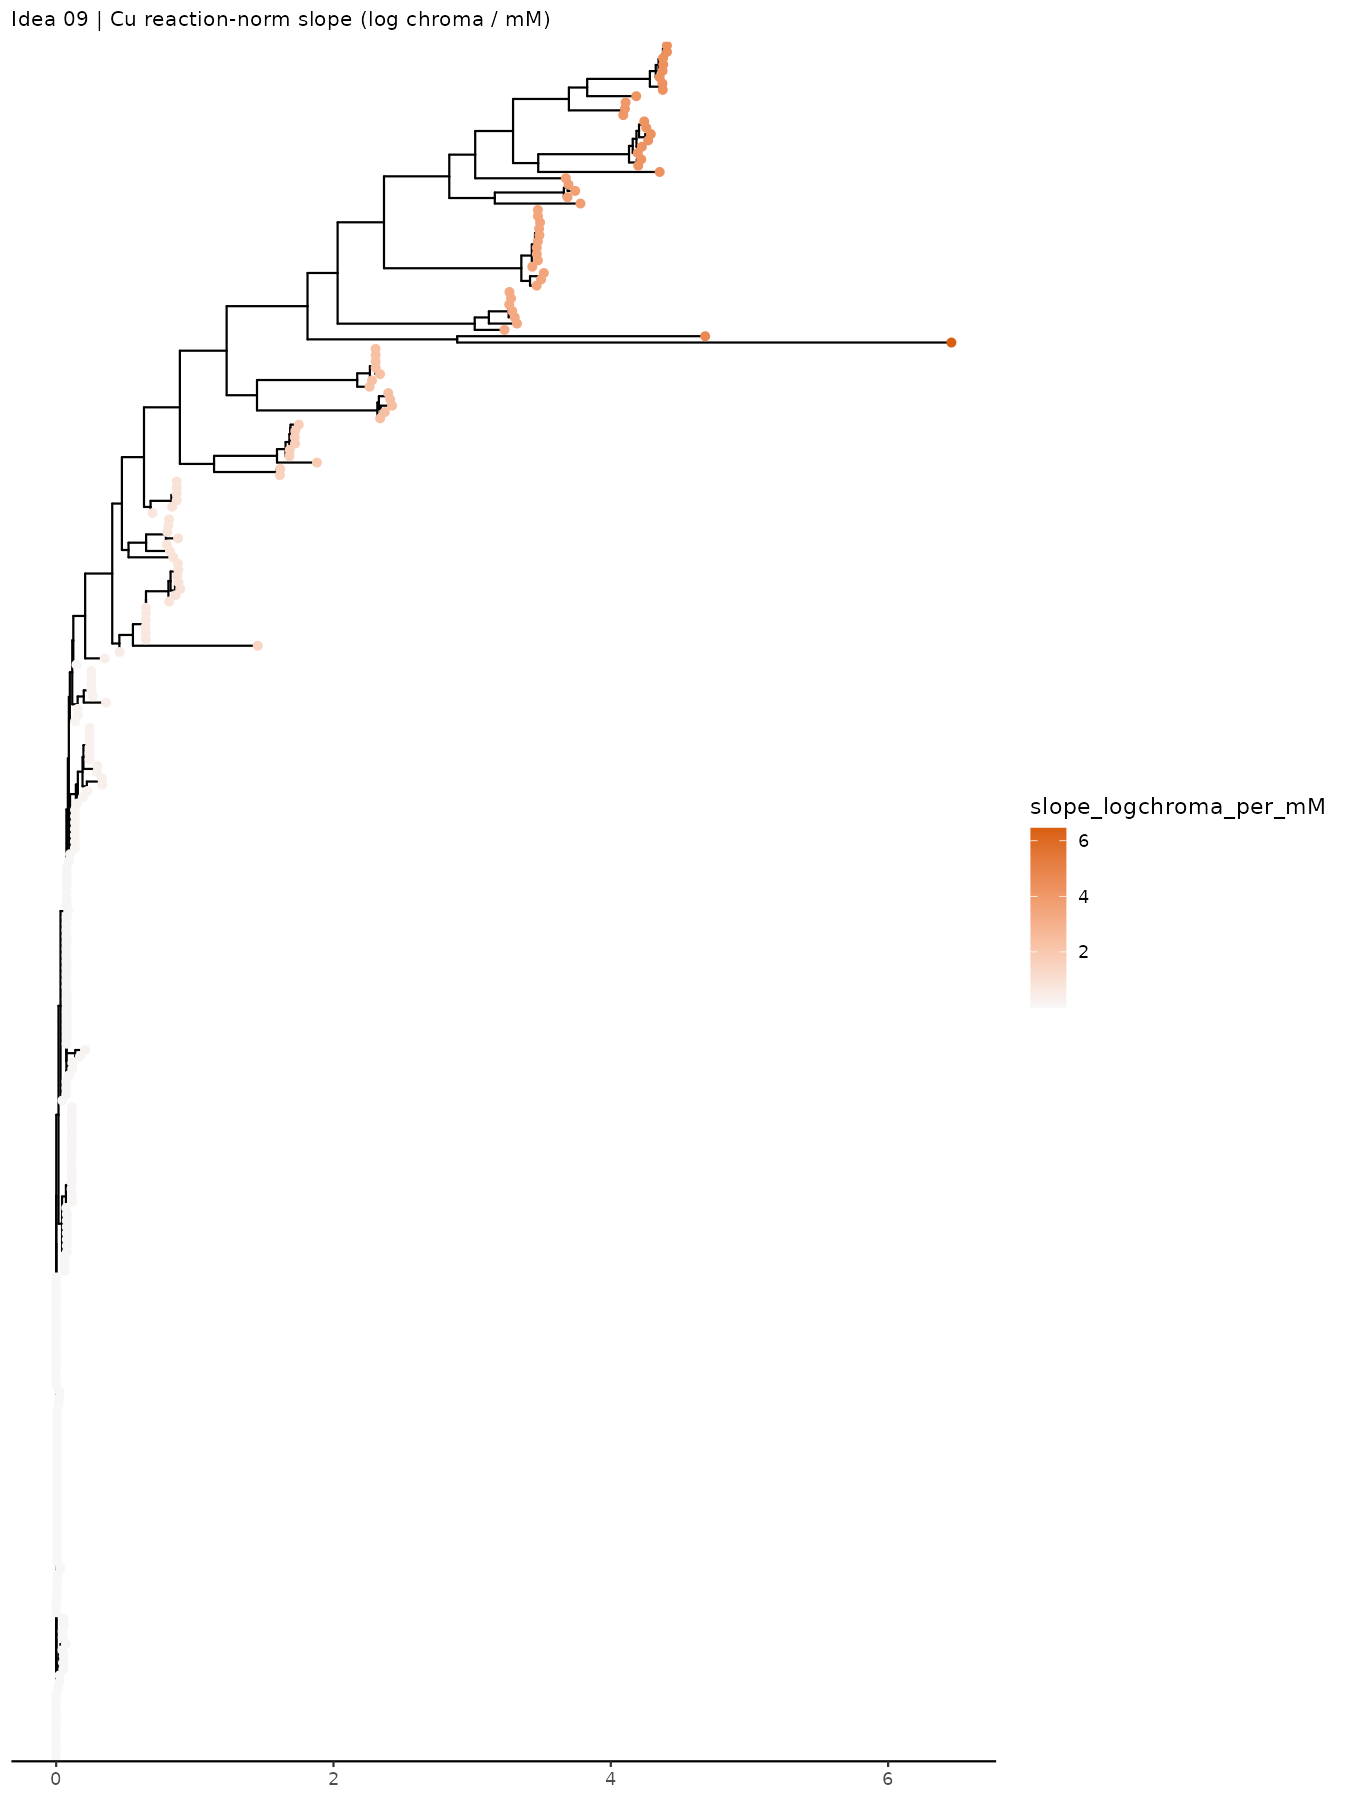
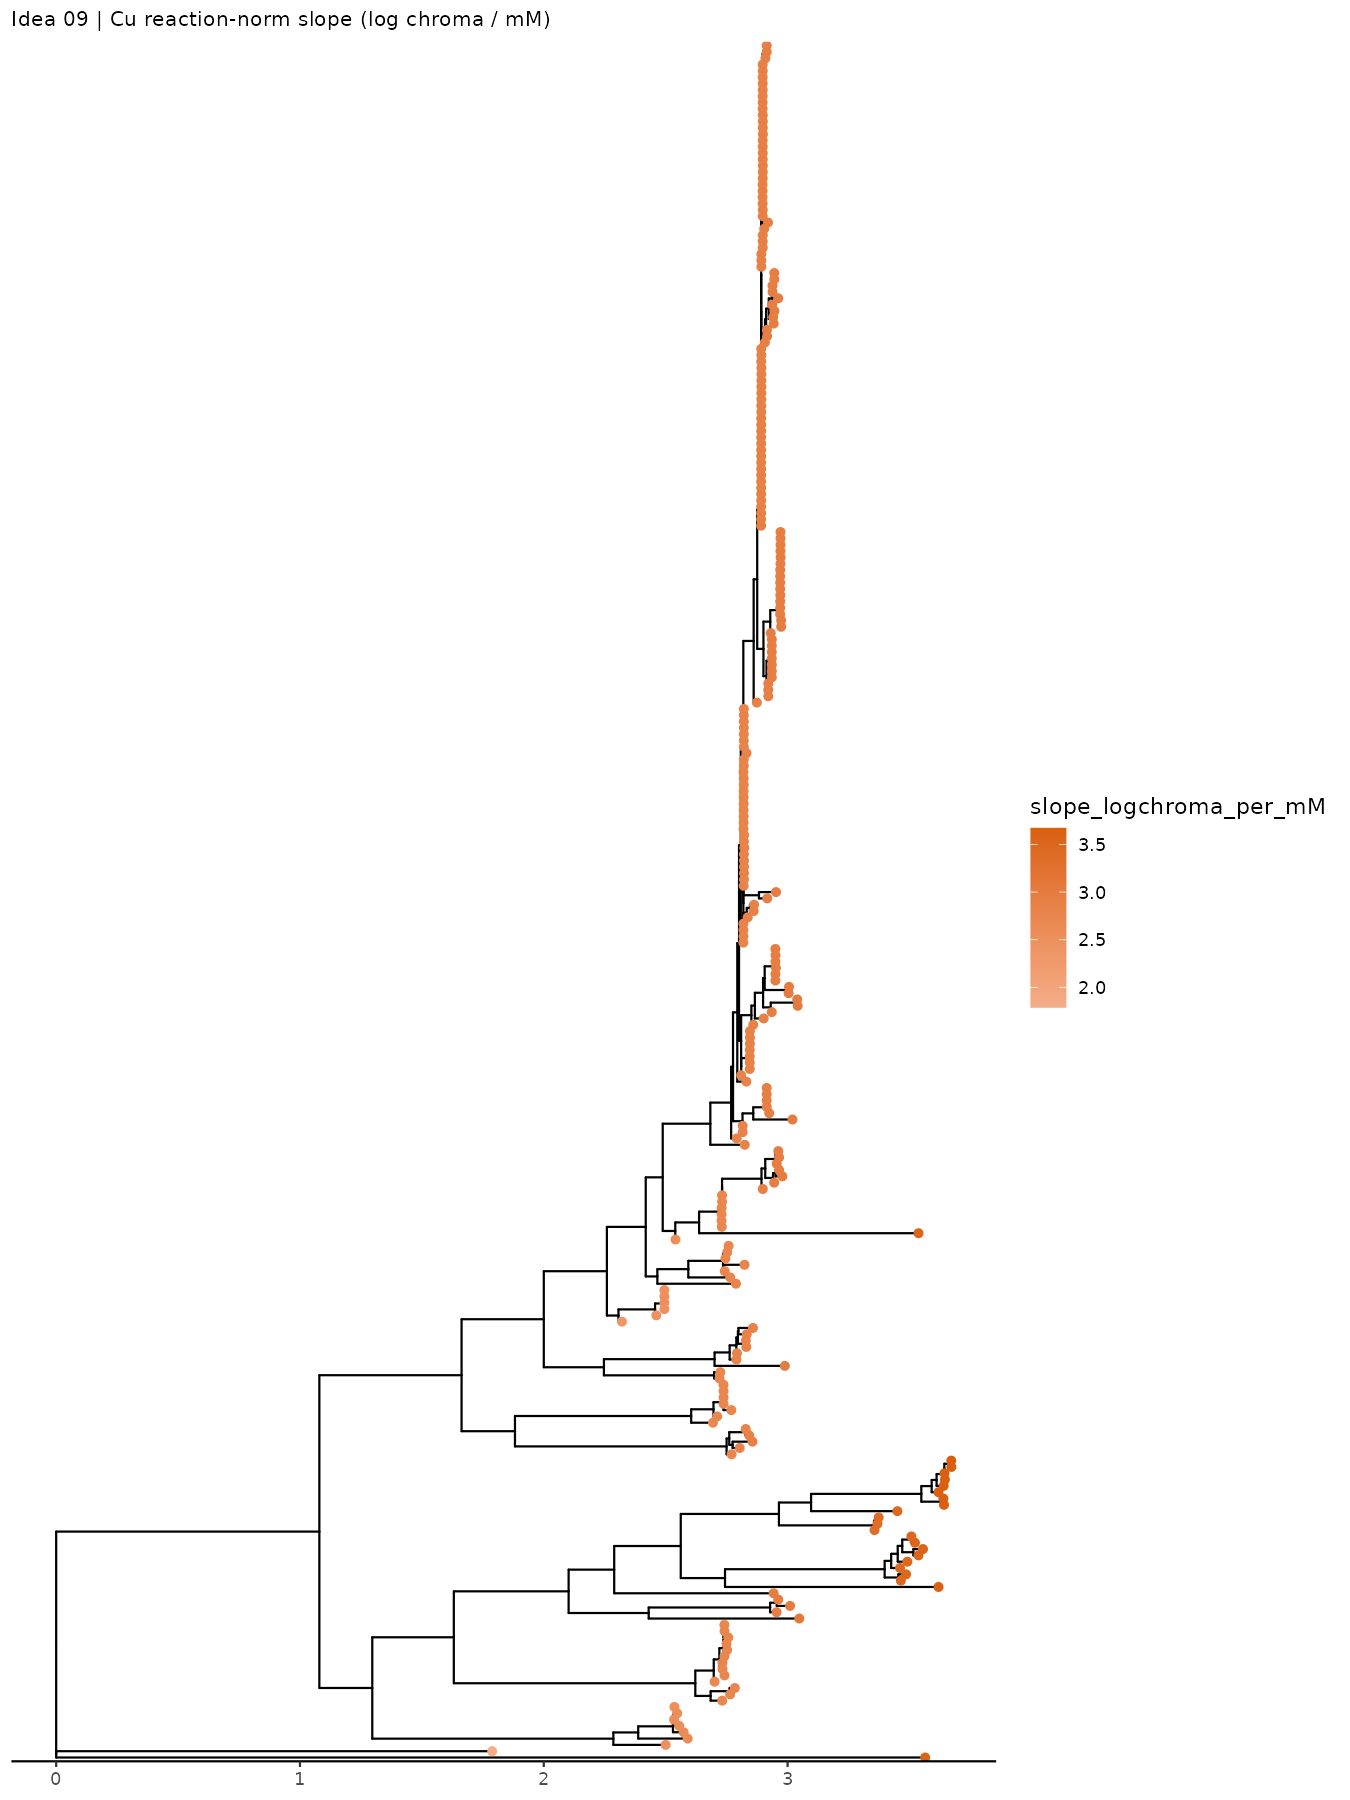
Reroot idea09 phylogeny figures on Cystobasidium+Pseudomicrostroma outgroup
Root the FastTree on the only two non-Rhodotorula tips (Cystobasidium_sp.
DBVPG_10075 + Pseudomicrostoma_phylloplanum_DBVPG_6740) via ape::root before
pruning, so the rooted topology is preserved in fig09_trait_on_tree_*.png and
idea09_pruned_trees.rds. Mantel p-values are root-invariant; Blomberg K / Pagel
lambda (phytools) shift because their optimization is root-sensitive. Update
09-phylogeneticist.md method docs.

Excludes unrelated large GWAS PDFs under results/gwas/ (see .living/learnings).

diff --git a/analysis/ideas/2026-08-15-color-phenotype-space/09-phylogeneticist.md b/analysis/ideas/2026-08-15-color-phenotype-space/09-phylogeneticist.md
@@ -29,7 +29,14 @@ of them R. mucilaginosa.
 `scripts/idea_09_phylogeny.R`
 
 1. Load tree (ape::read.tree), normalize tip labels.
-2. Join traits to tips via `tip_label ⇄ strain_id` through strain_metadata.
+2. **Root the tree** on the only two non-*Rhodotorula* tips present —
+   `Cystobasidium_sp._DBVPG_10075` and `Pseudomicrostroma_phylloplanum_DBVPG_6740` —
+   via `ape::root(tr, outgroup = og, resolve.root = TRUE)`. Rooting is applied to the
+   full tree before pruning so the rooted topology is preserved through
+   `drop.tip()`; the basal root splits the two outgroup lineages from the
+   *Rhodotorula* crown. (Tip-only statistics — Mantel on patristic distances — are
+   rooting-invariant; rooting affects figure orientation only.)
+3. Join traits to tips via `tip_label ⇄ strain_id` through strain_metadata.
    277/278 tips matched; only `Rhodotorula_mucilaginosa_DH4148` unmatched.
 3. Prune tree to matched tips; compute the two scopes: **all strains** and
    **within R. mucilaginosa** (200+ tips).
